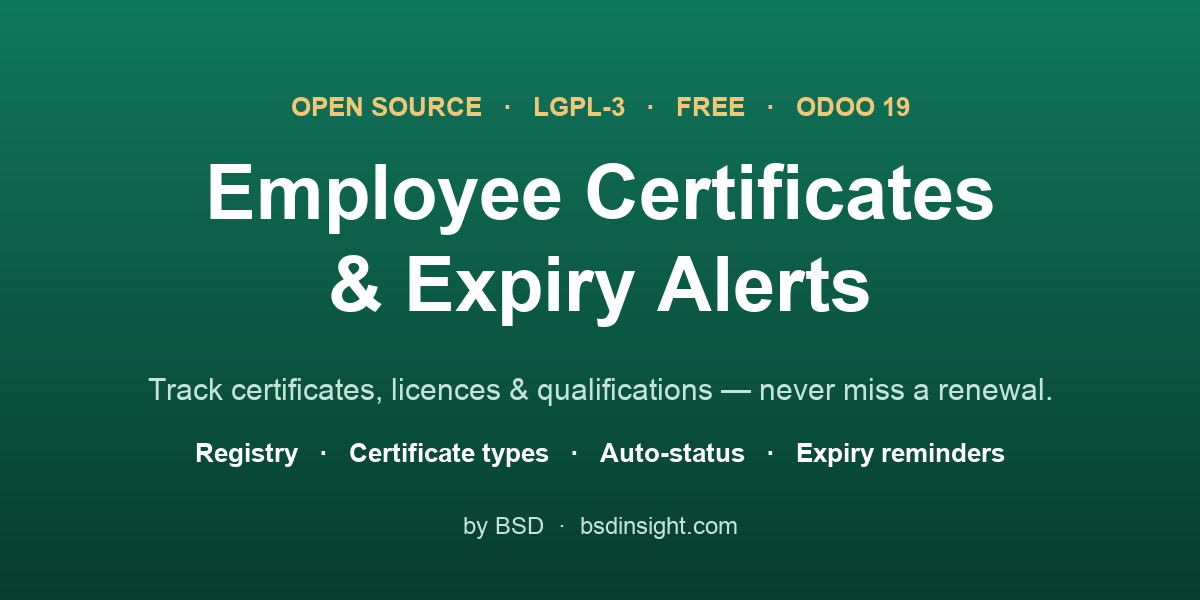
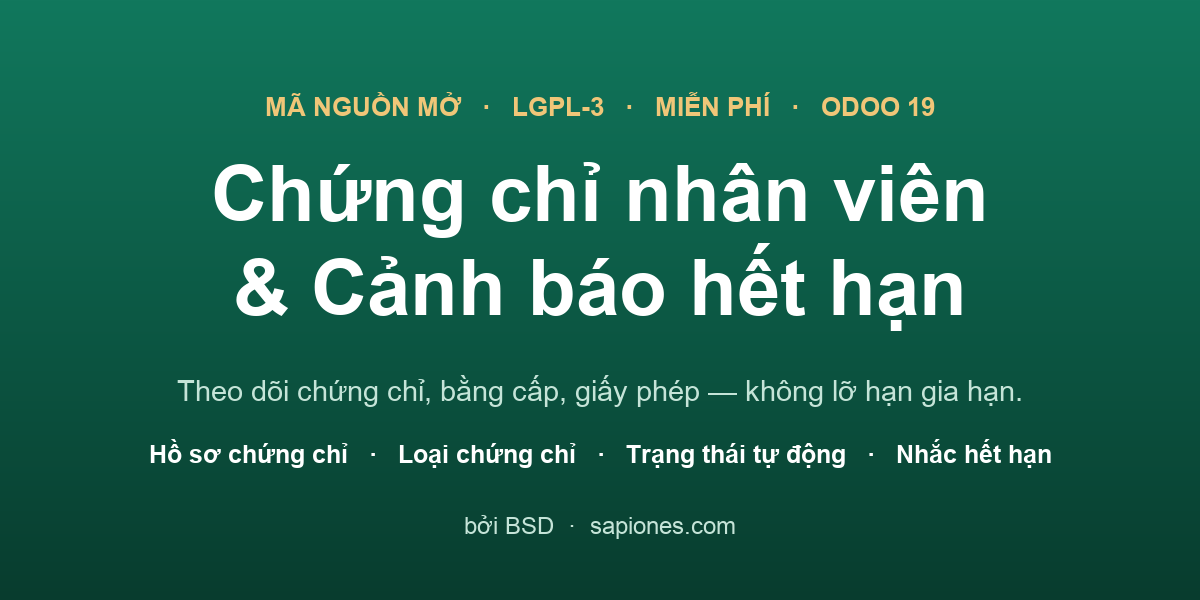
hr_certificate: đổi listing Odoo Apps sang tiếng Việt
- name/summary/description → tiếng Việt (như Parkone), summary kèm đuôi EN
- index.html tiếng Việt + ENCODE HTML entities (tránh Odoo double-encode mojibake)
- banner.png tiếng Việt; website → sapiones.com

diff --git a/sapiones_hr_certificate/static/description/index.html b/sapiones_hr_certificate/static/description/index.html
@@ -1,60 +1,61 @@
 <section style="font-family:'Roboto',sans-serif;color:#243b36;max-width:980px;margin:0 auto;">
 
   <div style="background:#0F6E56;color:#fff;border-radius:16px;padding:44px 40px;text-align:center;">
-    <h1 style="font-size:40px;font-weight:800;margin:0 0 10px;color:#fff;">Employee Certificates &amp; Expiry Alerts</h1>
-    <p style="font-size:19px;margin:0;color:#dbeee7;">
-      Keep every certificate, licence and qualification in one place — and never miss a renewal again.
+    <div style="color:#e9c78a;font-weight:700;letter-spacing:1px;font-size:14px;margin-bottom:12px;">M&#195; NGU&#7890;N M&#7902; &nbsp;&#183;&nbsp; LGPL-3 &nbsp;&#183;&nbsp; MI&#7876;N PH&#205; &nbsp;&#183;&nbsp; ODOO 19</div>
+    <h1 style="font-size:37px;font-weight:800;margin:0 0 10px;color:#fff;">Ch&#7913;ng ch&#7881; nh&#226;n vi&#234;n &amp; C&#7843;nh b&#225;o h&#7871;t h&#7841;n</h1>
+    <p style="font-size:18px;margin:0;color:#dbeee7;">
+      Theo d&#245;i ch&#7913;ng ch&#7881;, b&#7857;ng c&#7845;p, gi&#7845;y ph&#233;p c&#7911;a nh&#226;n vi&#234;n &#8212; kh&#244;ng bao gi&#7901; l&#7905; h&#7841;n gia h&#7841;n.
     </p>
   </div>
 
   <p style="font-size:17px;line-height:1.6;margin:28px 6px;">
-    A lightweight add-on for standard Odoo HR. Register the certificates and licences your people
-    hold, and let Odoo watch the expiry dates for you — automatically raising a reminder for the
-    manager before anything lapses. Ideal for safety, operations and compliance-driven teams.
+    Ti&#7879;n &#237;ch g&#7885;n nh&#7865; cho Odoo HR chu&#7849;n. L&#432;u h&#7891; s&#417; ch&#7913;ng ch&#7881; &amp; gi&#7845;y ph&#233;p m&#224; nh&#226;n vi&#234;n &#273;ang gi&#7919;,
+    &#273;&#7875; Odoo t&#7921; canh ng&#224;y h&#7871;t h&#7841;n v&#224; nh&#7855;c qu&#7843;n l&#253; gia h&#7841;n tr&#432;&#7899;c khi h&#7871;t h&#7841;n. R&#7845;t h&#7907;p cho c&#225;c &#273;&#7897;i
+    an to&#224;n, v&#7853;n h&#224;nh v&#224; tu&#226;n th&#7911; trong doanh nghi&#7879;p s&#7843;n xu&#7845;t.
   </p>
 
   <div style="display:grid;grid-template-columns:repeat(auto-fit,minmax(280px,1fr));gap:18px;margin:6px;">
 
     <div style="border:1px solid #e6efec;border-radius:12px;padding:22px;">
-      <h3 style="color:#0F6E56;margin:0 0 8px;">📇 Certificate registry</h3>
-      <p style="margin:0;line-height:1.55;">One record per certificate: number, issuing body, issue &amp;
-      expiry dates, notes and an attached scan of the document.</p>
+      <h3 style="color:#0F6E56;margin:0 0 8px;">&#128199; H&#7891; s&#417; ch&#7913;ng ch&#7881;</h3>
+      <p style="margin:0;line-height:1.55;">M&#7895;i ch&#7913;ng ch&#7881; m&#7897;t h&#7891; s&#417;: s&#7889; hi&#7879;u, &#273;&#417;n v&#7883; c&#7845;p, ng&#224;y c&#7845;p &amp;
+      ng&#224;y h&#7871;t h&#7841;n, ghi ch&#250; v&#224; t&#7879;p qu&#233;t &#273;&#237;nh k&#232;m.</p>
     </div>
 
     <div style="border:1px solid #e6efec;border-radius:12px;padding:22px;">
-      <h3 style="color:#0F6E56;margin:0 0 8px;">🗂 Certificate types</h3>
-      <p style="margin:0;line-height:1.55;">Configurable catalogue — safety, equipment operation,
-      professional, language, degree… — each with a default validity period and a “mandatory” flag.</p>
+      <h3 style="color:#0F6E56;margin:0 0 8px;">&#128450;&#65039; Lo&#7841;i ch&#7913;ng ch&#7881;</h3>
+      <p style="margin:0;line-height:1.55;">Danh m&#7909;c c&#7845;u h&#236;nh &#273;&#432;&#7907;c &#8212; an to&#224;n lao &#273;&#7897;ng, v&#7853;n h&#224;nh thi&#7871;t b&#7883;,
+      ngh&#7873;, ngo&#7841;i ng&#7919;, b&#7857;ng c&#7845;p&#8230; &#8212; m&#7895;i lo&#7841;i c&#243; th&#7901;i h&#7841;n m&#7863;c &#273;&#7883;nh v&#224; c&#7901; &#8220;b&#7855;t bu&#7897;c&#8221;.</p>
     </div>
 
     <div style="border:1px solid #e6efec;border-radius:12px;padding:22px;">
-      <h3 style="color:#0F6E56;margin:0 0 8px;">🚦 Automatic status</h3>
-      <p style="margin:0;line-height:1.55;">Every certificate is auto-classified as <b>Valid</b>,
-      <b>Expiring soon</b>, <b>Expired</b> or <b>No expiry</b>, with a live “days to expiry” count.</p>
+      <h3 style="color:#0F6E56;margin:0 0 8px;">&#128678; Tr&#7841;ng th&#225;i t&#7921; &#273;&#7897;ng</h3>
+      <p style="margin:0;line-height:1.55;">M&#7895;i ch&#7913;ng ch&#7881; t&#7921; x&#7871;p lo&#7841;i <b>C&#242;n h&#7841;n</b>, <b>S&#7855;p h&#7871;t h&#7841;n</b>,
+      <b>H&#7871;t h&#7841;n</b> ho&#7863;c <b>Kh&#244;ng th&#7901;i h&#7841;n</b>, k&#232;m s&#7889; ng&#224;y c&#242;n l&#7841;i.</p>
     </div>
 
     <div style="border:1px solid #e6efec;border-radius:12px;padding:22px;">
-      <h3 style="color:#0F6E56;margin:0 0 8px;">⏰ Expiry reminders</h3>
-      <p style="margin:0;line-height:1.55;">A scheduled action creates a to-do activity for the
-      responsible manager <b>before</b> a certificate expires — so renewals never slip through.</p>
+      <h3 style="color:#0F6E56;margin:0 0 8px;">&#9200; Nh&#7855;c h&#7871;t h&#7841;n</h3>
+      <p style="margin:0;line-height:1.55;">T&#225;c v&#7909; &#273;&#7883;nh k&#7923; t&#7921; t&#7841;o vi&#7879;c c&#7847;n l&#224;m (To-Do) cho qu&#7843;n l&#253; ph&#7909; tr&#225;ch
+      <b>tr&#432;&#7899;c khi</b> ch&#7913;ng ch&#7881; h&#7871;t h&#7841;n &#8212; kh&#244;ng &#273;&#7875; l&#7905; &#273;&#7907;t gia h&#7841;n n&#224;o.</p>
     </div>
 
     <div style="border:1px solid #e6efec;border-radius:12px;padding:22px;">
-      <h3 style="color:#0F6E56;margin:0 0 8px;">👤 On the employee form</h3>
-      <p style="margin:0;line-height:1.55;">A “Certificates” tab and an alert flag right on the
-      employee, plus filtered list views of what is expiring or already expired.</p>
+      <h3 style="color:#0F6E56;margin:0 0 8px;">&#128100; Ngay tr&#234;n h&#7891; s&#417; nh&#226;n vi&#234;n</h3>
+      <p style="margin:0;line-height:1.55;">Tab &#8220;Ch&#7913;ng ch&#7881;&#8221; v&#224; c&#7901; c&#7843;nh b&#225;o hi&#7875;n th&#7883; ngay tr&#234;n
+      nh&#226;n vi&#234;n, c&#249;ng b&#225;o c&#225;o l&#7885;c ch&#7913;ng ch&#7881; s&#7855;p h&#7871;t ho&#7863;c &#273;&#227; h&#7871;t h&#7841;n.</p>
     </div>
 
     <div style="border:1px solid #e6efec;border-radius:12px;padding:22px;">
-      <h3 style="color:#0F6E56;margin:0 0 8px;">🔓 Free &amp; open source</h3>
-      <p style="margin:0;line-height:1.55;">Licensed under LGPL-3. Depends only on the standard
-      <code>hr</code> module — installs cleanly on any Odoo 19 Community or Enterprise.</p>
+      <h3 style="color:#0F6E56;margin:0 0 8px;">&#128275; M&#227; ngu&#7891;n m&#7903; &amp; mi&#7877;n ph&#237;</h3>
+      <p style="margin:0;line-height:1.55;">Ph&#225;t h&#224;nh theo LGPL-3. Ch&#7881; ph&#7909; thu&#7897;c module <code>hr</code>
+      chu&#7849;n &#8212; c&#224;i s&#7841;ch tr&#234;n m&#7885;i Odoo 19 Community ho&#7863;c Enterprise.</p>
     </div>
 
   </div>
 
   <div style="text-align:center;color:#6b7c76;font-size:15px;margin:34px 6px 6px;">
-    Developed by <b>BSD</b> — <a href="https://bsdinsight.com" style="color:#0F6E56;">bsdinsight.com</a>
+    Ph&#225;t tri&#7875;n b&#7903;i <b>BSD</b> &#8212; <a href="https://sapiones.com" style="color:#0F6E56;">sapiones.com</a>
   </div>
 
 </section>

diff --git a/sapiones_hr_certificate/__manifest__.py b/sapiones_hr_certificate/__manifest__.py
@@ -1,28 +1,29 @@
+# -*- coding: utf-8 -*-
 {
-    'name': 'Employee Certificates & Expiry Alerts',
+    'name': 'Sapiones - Chứng chỉ nhân viên & Cảnh báo hết hạn',
     'version': '19.0.1.0.0',
     'category': 'Human Resources',
-    'summary': 'Track employee certificates, licenses & qualifications with automatic expiry reminders',
+    'summary': 'Quản lý chứng chỉ, bằng cấp, giấy phép của nhân viên; tự động theo dõi trạng thái '
+               '& nhắc gia hạn trước khi hết hạn | Employee certificate & license expiry tracking',
     'description': """
-Employee Certificates & Expiry Alerts
-=====================================
+Chứng chỉ nhân viên & Cảnh báo hết hạn (Sapiones)
+=================================================
 
-Keep every employee certificate, licence and qualification in one place —
-and never miss a renewal again.
+Quản lý tập trung chứng chỉ / bằng cấp / giấy phép của nhân viên và để Odoo
+tự canh ngày hết hạn giúp bạn — nhắc quản lý gia hạn trước khi hết hạn.
 
-* Certificate registry per employee: number, issuing body, issue/expiry dates, attached file
-* Configurable certificate types (safety, equipment operation, professional, language, degree…)
-  with a default validity period and a "mandatory" flag
-* Automatic status — Valid / Expiring soon / Expired / No expiry — with days to expiry
-* Scheduled reminder auto-creates a to-do activity for the manager before a certificate expires
-* Certificates tab on the employee form, an alert flag, and filtered reporting
+* Hồ sơ chứng chỉ theo từng nhân viên: số hiệu, đơn vị cấp, ngày cấp / ngày hết hạn, tệp đính kèm
+* Danh mục loại chứng chỉ (an toàn lao động, vận hành thiết bị, nghề, ngoại ngữ, bằng cấp…) kèm thời hạn mặc định & cờ "bắt buộc"
+* Trạng thái tự động: Còn hạn / Sắp hết hạn / Hết hạn / Không thời hạn, kèm số ngày còn lại
+* Cron nhắc hạn: tự tạo việc cần làm (To-Do) cho quản lý trước khi chứng chỉ hết hạn
+* Tab "Chứng chỉ" ngay trên hồ sơ nhân viên + báo cáo lọc chứng chỉ sắp / đã hết hạn
 
-Depends only on standard Odoo HR (``hr``). Free & open source (LGPL-3).
+Chỉ phụ thuộc Odoo HR chuẩn (hr). Mã nguồn mở, miễn phí (LGPL-3).
 
-Developed by BSD — https://bsdinsight.com
+Phát triển bởi BSD — https://bsdinsight.com
 """,
     'author': 'BSD',
-    'website': 'https://bsdinsight.com',
+    'website': 'https://sapiones.com',
     'support': 'info@bsdinsight.com',
     'license': 'LGPL-3',
     'depends': ['hr'],
